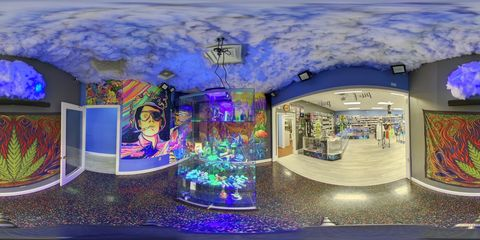
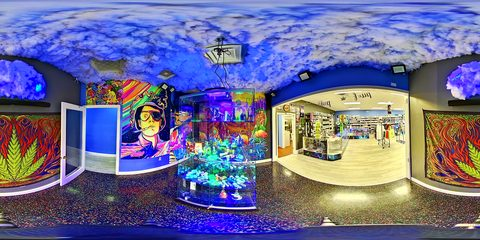
Smoke shops: vivid edits on all five 360s and POI photos, phone-first start views
Claude-Session: https://claude.ai/code/session_01EmyCqKo5SXEfjokQ9fR8o3

diff --git a/public/smoke-shops/index.html b/public/smoke-shops/index.html
@@ -349,11 +349,11 @@ const reduce = matchMedia('(prefers-reduced-motion: reduce)').matches;
 
 /* ───── options ───── */
 const SHOTS = [
-  {id:'s-front2', name:'Storefront', kind:'Smoke shop', meta:'HDR', src:'/img/smoke/storefront-2.jpg', thumb:'/img/smoke/storefront-2-thumb.jpg', yaw:-48},
-  {id:'s-glass', name:'Glass Room', kind:'Smoke shop', meta:'HDR', src:'/img/smoke/glass-room.jpg', thumb:'/img/smoke/glass-room-thumb.jpg', yaw:-58},
-  {id:'s-floor', name:'Sales Floor', kind:'Smoke shop', meta:'HDR', src:'/img/smoke/sales-floor.jpg', thumb:'/img/smoke/sales-floor-thumb.jpg', yaw:0},
-  {id:'s-front1', name:'Entrance', kind:'Smoke shop', meta:'HDR', src:'/img/smoke/storefront-1.jpg', thumb:'/img/smoke/storefront-1-thumb.jpg', yaw:0, fov:1.75, pitch:16},
-  {id:'s-kava', name:'Kava Lounge', kind:'Lounge', meta:'HDR', src:'/img/smoke/kava-lounge.jpg', thumb:'/img/smoke/kava-lounge-thumb.jpg', yaw:-11},
+  {id:'s-front2', name:'Storefront', kind:'Smoke shop', meta:'HDR', src:'/img/smoke/storefront-2.jpg', thumb:'/img/smoke/storefront-2-thumb.jpg', yaw:-24},
+  {id:'s-glass', name:'Glass Room', kind:'Smoke shop', meta:'HDR', src:'/img/smoke/glass-room.jpg', thumb:'/img/smoke/glass-room-thumb.jpg', yaw:-84, fov:1.4, pitch:-14},
+  {id:'s-floor', name:'Sales Floor', kind:'Smoke shop', meta:'HDR', src:'/img/smoke/sales-floor.jpg', thumb:'/img/smoke/sales-floor-thumb.jpg', yaw:2},
+  {id:'s-front1', name:'Entrance', kind:'Smoke shop', meta:'HDR', src:'/img/smoke/storefront-1.jpg', thumb:'/img/smoke/storefront-1-thumb.jpg', yaw:-6, fov:1.9, pitch:12},
+  {id:'s-kava', name:'Kava Lounge', kind:'Lounge', meta:'HDR', src:'/img/smoke/kava-lounge.jpg', thumb:'/img/smoke/kava-lounge-thumb.jpg', yaw:-16},
 ];
 const TYPES = [
   {id:'monument', name:'Monument', note:'Syne + Manrope. Wide, architectural, confident. Reads like a studio that builds things.', font:"'Syne'", w:800},
@@ -694,7 +694,7 @@ function frame(now){
   }
   const e = mix;
   const zf = (SHOTS.find(x=>x.id===S.shot)||{}).fov || 1;
-  const sPlanet = Math.log(3.1), sWalk = Math.log(Math.tan(Math.min(fovV()*zf, 140*D)/2));
+  const sPlanet = Math.log(3.1), sWalk = Math.log(Math.tan(Math.min(fovV()*zf, 152*D)/2));
   cam.yaw = view.yaw + planetSpin*(1-e);
   cam.pitch = (-90*D)*(1-e) + view.pitch*e;
   cam.scale = Math.exp(sPlanet*(1-e) + sWalk*e);
